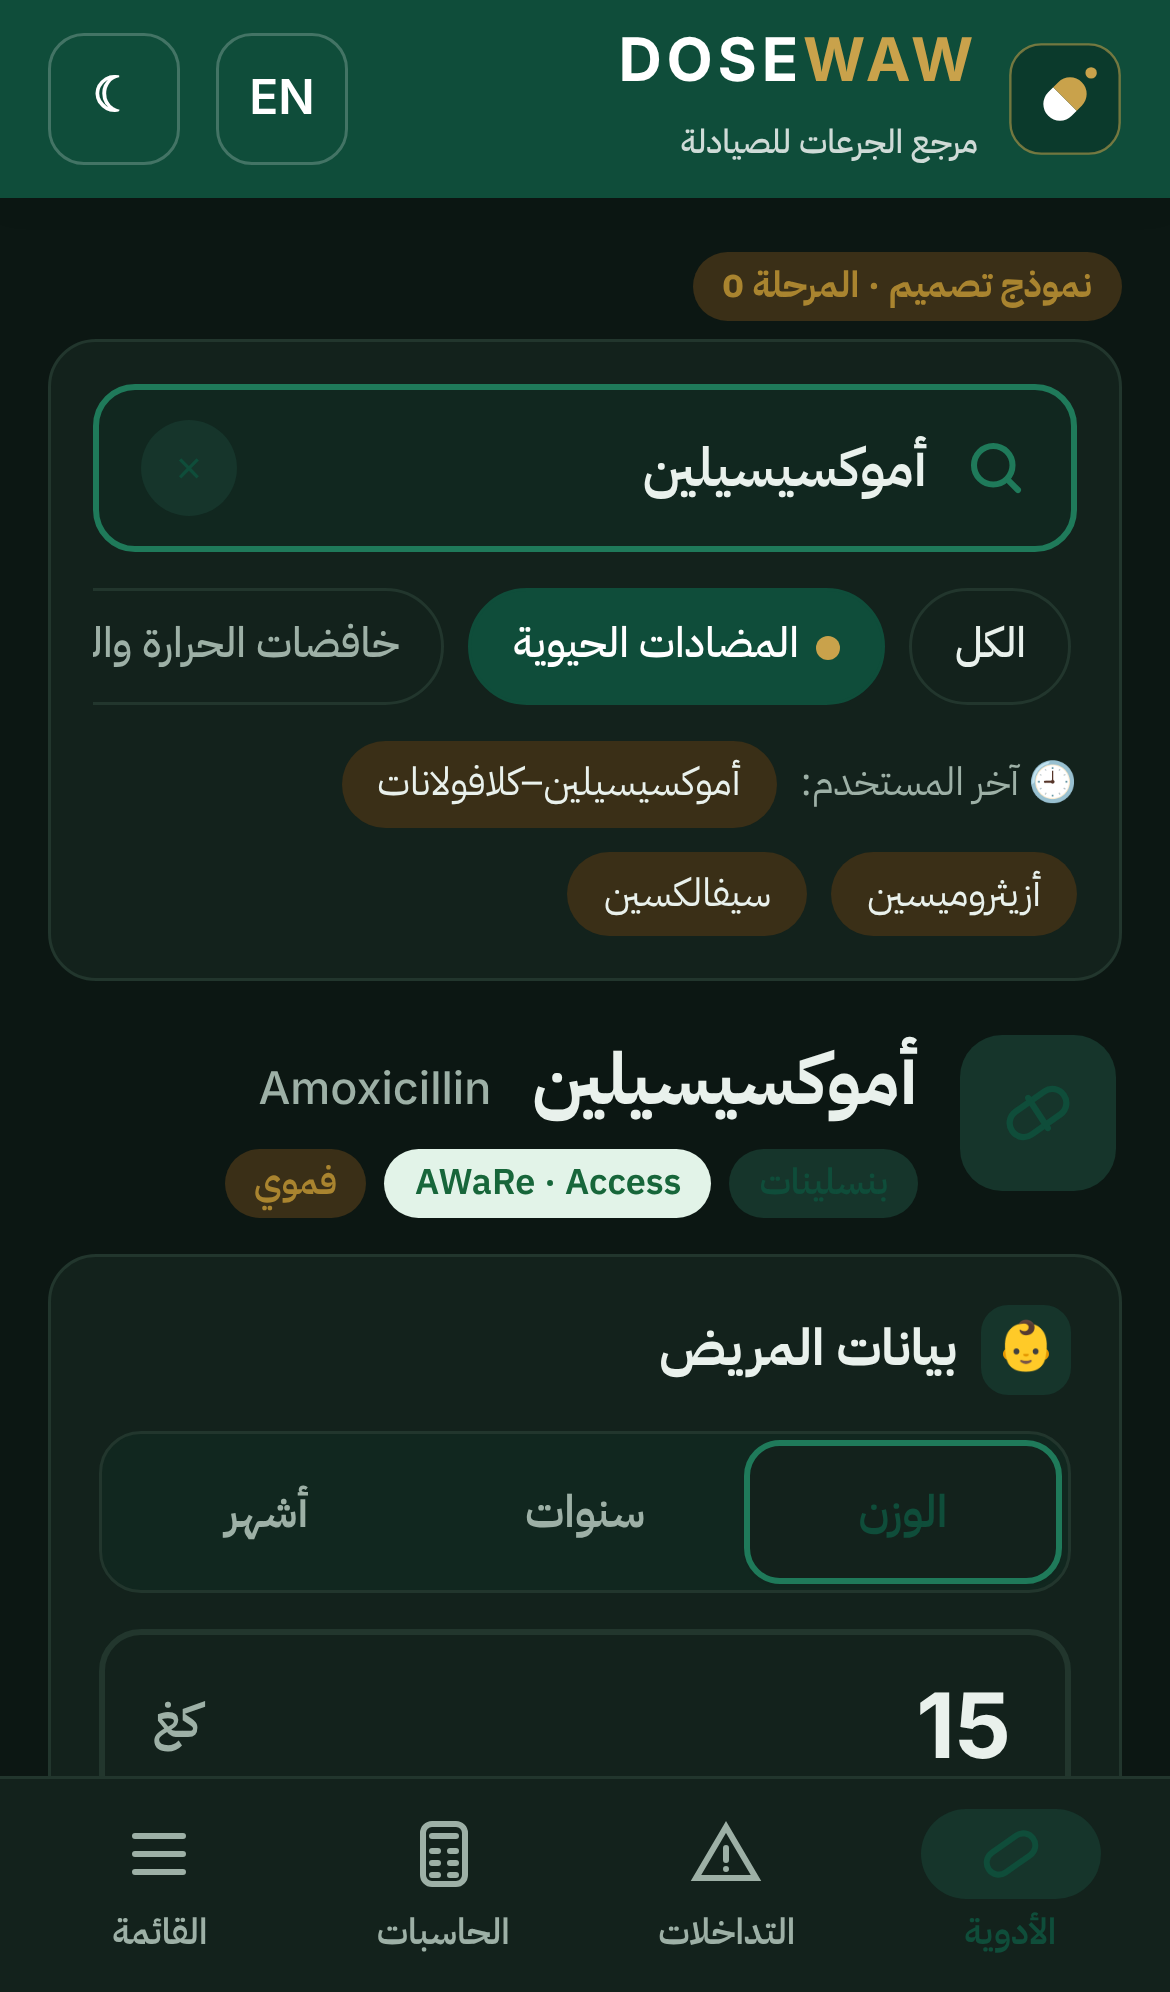
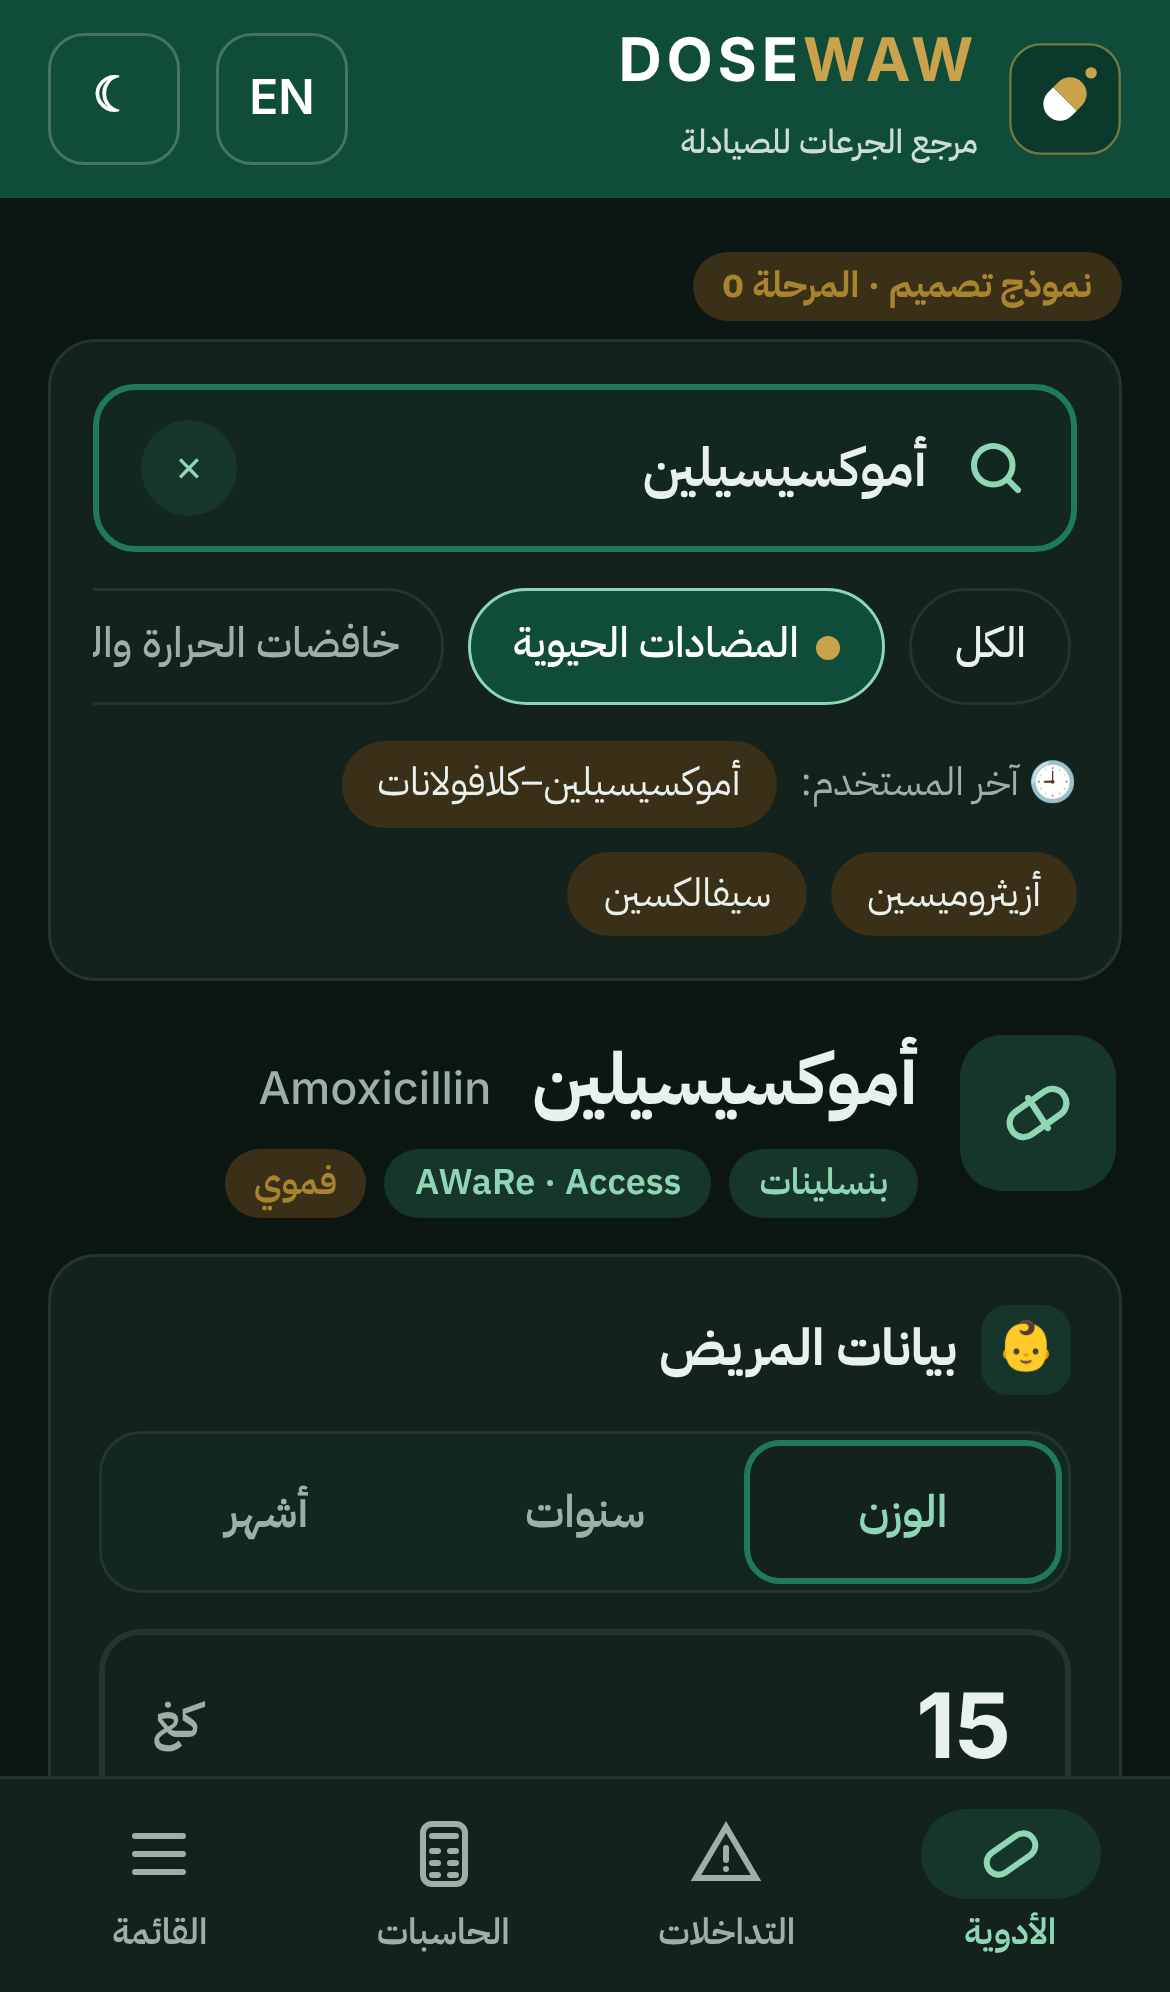
Phase 0 mockup: dark-mode contrast and date direction fixes
Claude-Session: https://claude.ai/code/session_01RPdTm6P4zQyDgno461tTNd

diff --git a/design/phase0/index.html b/design/phase0/index.html
@@ -12,7 +12,7 @@
 /* DOSEWAW · Phase 0 design mockup (not the production site).
    Identity: emerald green + gold on ivory. */
 :root{
-  --green-900:#0B3A2C; --green:#0F4D3A; --green-600:#1F7A5A; --green-100:#E3EFE9; --green-50:#F1F7F3;
+  --green-900:#0B3A2C; --green:#0F4D3A; --green-600:#1F7A5A; --green-100:#E3EFE9; --accent:#0F4D3A; --acc-bg:#E2F3E8; --acc-ink:#17663A; --green-50:#F1F7F3;
   --gold:#C9A24B; --gold-600:#A9842F; --gold-100:#F6EDD6;
   --bg:#FAF8F2; --card:#FFFFFF; --ink:#14231D; --mute:#5D6B64; --line:#E4E0D3;
   --major:#B42318; --major-bg:#FDECEA; --mod:#9A5B00; --mod-bg:#FFF4E0; --minor:#3D5A80; --minor-bg:#EAF0F7;
@@ -21,14 +21,14 @@
 }
 @media (prefers-color-scheme: dark){
   :root:not([data-theme="light"]){
-    --green-100:#16352B; --green-50:#11271F; --gold-100:#3A2F17;
+    --green-100:#16352B; --green-50:#11271F; --gold-100:#3A2F17; --accent:#8FD6B5; --acc-bg:#16352B; --acc-ink:#8FD6B5;
     --bg:#0C1713; --card:#13221C; --ink:#E9F1EC; --mute:#9DB0A6; --line:#22362D;
     --major-bg:#3A1612; --mod-bg:#35260C; --minor-bg:#17263A; --major:#F28B82; --mod:#F2C26B; --minor:#9CC0EA;
     --shadow:none;
   }
 }
 :root[data-theme="dark"]{
-  --green-100:#16352B; --green-50:#11271F; --gold-100:#3A2F17;
+  --green-100:#16352B; --green-50:#11271F; --gold-100:#3A2F17; --accent:#8FD6B5; --acc-bg:#16352B; --acc-ink:#8FD6B5;
   --bg:#0C1713; --card:#13221C; --ink:#E9F1EC; --mute:#9DB0A6; --line:#22362D;
   --major-bg:#3A1612; --mod-bg:#35260C; --minor-bg:#17263A; --major:#F28B82; --mod:#F2C26B; --minor:#9CC0EA;
   --shadow:none;
@@ -39,7 +39,7 @@ html,body{margin:0}
 body{background:var(--bg);color:var(--ink);font-family:var(--font);font-size:16px;line-height:1.6;-webkit-font-smoothing:antialiased;padding-bottom:84px}
 .en,.num{font-family:'Inter',var(--font)}
 button,input{font:inherit;color:inherit}
-a{color:var(--green-600)}
+a{color:var(--accent)}
 
 /* Header */
 .top{position:sticky;top:0;z-index:20;background:var(--green);color:#fff;box-shadow:0 2px 10px rgba(0,0,0,.08)}
@@ -55,13 +55,13 @@ a{color:var(--green-600)}
 .wrap{max-width:1200px;margin:0 auto;padding:16px}
 .search{background:var(--card);border:1px solid var(--line);border-radius:var(--radius);box-shadow:var(--shadow);padding:14px}
 .sbox{display:flex;align-items:center;gap:10px;background:var(--green-50);border:2px solid var(--green-600);border-radius:14px;padding:0 14px;height:56px}
-.sbox svg{flex:none;color:var(--green-600)}
+.sbox svg{flex:none;color:var(--accent)}
 .sbox input{border:0;background:transparent;outline:0;flex:1;font-size:18px;font-weight:600;min-width:0}
-.sbox .clr{border:0;background:var(--green-100);border-radius:99px;width:32px;height:32px;cursor:pointer;color:var(--green)}
+.sbox .clr{border:0;background:var(--green-100);border-radius:99px;width:32px;height:32px;cursor:pointer;color:var(--accent)}
 .chips{display:flex;gap:8px;overflow-x:auto;padding:12px 2px 2px;scrollbar-width:none}
 .chips::-webkit-scrollbar{display:none}
 .chip{flex:none;display:inline-flex;align-items:center;gap:6px;border:1px solid var(--line);background:var(--card);border-radius:99px;padding:7px 14px;font-size:14px;font-weight:500;white-space:nowrap;cursor:pointer}
-.chip[aria-pressed="true"]{background:var(--green);border-color:var(--green);color:#fff}
+.chip[aria-pressed="true"]{background:var(--green);border-color:var(--accent);color:#fff}
 .chip .dot{width:8px;height:8px;border-radius:50%;background:var(--gold)}
 .chip.soon{color:var(--mute)}
 .chip.soon em{font-style:normal;font-size:11px;background:var(--gold-100);color:var(--gold-600);border-radius:99px;padding:1px 7px}
@@ -70,13 +70,13 @@ a{color:var(--green-600)}
 
 /* Drug head */
 .dhead{display:flex;align-items:flex-start;gap:14px;margin:18px 2px 12px}
-.dicon{flex:none;width:52px;height:52px;border-radius:14px;background:var(--green-100);display:grid;place-items:center;color:var(--green)}
+.dicon{flex:none;width:52px;height:52px;border-radius:14px;background:var(--green-100);display:grid;place-items:center;color:var(--accent)}
 .dhead h1{margin:0;font-size:24px;line-height:1.3}
 .dhead h1 .en{font-size:15px;font-weight:500;color:var(--mute);margin-inline-start:8px}
 .tags{display:flex;gap:6px;flex-wrap:wrap;margin-top:6px}
-.tag{font-size:12px;border-radius:99px;padding:2px 10px;background:var(--green-100);color:var(--green);font-weight:600}
+.tag{font-size:12px;border-radius:99px;padding:2px 10px;background:var(--green-100);color:var(--accent);font-weight:600}
 .tag.gold{background:var(--gold-100);color:var(--gold-600)}
-.tag.access{background:#E2F3E8;color:#17663A}
+.tag.access{background:var(--acc-bg);color:var(--acc-ink)}
 
 /* Layout */
 .grid{display:grid;gap:16px}
@@ -92,16 +92,16 @@ a{color:var(--green-600)}
 .grid>*,.calc-col>*,.info>*{min-width:0}
 .card{background:var(--card);border:1px solid var(--line);border-radius:var(--radius);box-shadow:var(--shadow);padding:16px}
 .card h2{margin:0 0 12px;font-size:17px;display:flex;align-items:center;gap:8px}
-.card h2 .ic{width:30px;height:30px;border-radius:9px;display:grid;place-items:center;background:var(--green-100);color:var(--green);font-size:16px}
+.card h2 .ic{width:30px;height:30px;border-radius:9px;display:grid;place-items:center;background:var(--green-100);color:var(--accent);font-size:16px}
 .card h2 .cnt{margin-inline-start:auto;font-size:12px;font-weight:600;color:var(--mute)}
 
 /* Patient input */
 .seg{display:grid;grid-template-columns:repeat(3,1fr);background:var(--green-50);border:1px solid var(--line);border-radius:14px;padding:4px;gap:4px}
 .seg.two{grid-template-columns:1fr 1fr}
 .seg button{border:0;background:transparent;border-radius:10px;min-height:44px;font-weight:600;font-size:15px;cursor:pointer;color:var(--mute)}
-.seg button[aria-pressed="true"]{background:var(--card);color:var(--green);box-shadow:0 1px 3px rgba(0,0,0,.08);outline:2px solid var(--green-600)}
+.seg button[aria-pressed="true"]{background:var(--card);color:var(--accent);box-shadow:0 1px 3px rgba(0,0,0,.08);outline:2px solid var(--green-600)}
 .numin{display:flex;align-items:center;gap:10px;margin-top:12px;border:2px solid var(--line);border-radius:14px;padding:0 16px;height:64px;background:var(--card)}
-.numin:focus-within{border-color:var(--green-600)}
+.numin:focus-within{border-color:var(--accent)}
 .numin input{border:0;outline:0;background:transparent;flex:1;width:100%;font-size:30px;font-weight:700;min-width:0;font-family:'Inter',sans-serif;text-align:start}
 .numin span{color:var(--mute);font-weight:600}
 .est{font-size:13px;color:var(--gold-600);background:var(--gold-100);border-radius:10px;padding:6px 10px;margin-top:8px}
@@ -109,10 +109,10 @@ a{color:var(--green-600)}
 .opts{display:grid;gap:6px}
 .opt{display:flex;align-items:center;gap:10px;border:1px solid var(--line);border-radius:12px;padding:10px 12px;min-height:48px;cursor:pointer;background:var(--card);text-align:start;font-size:14.5px}
 .opt i{flex:none;width:20px;height:20px;border-radius:50%;border:2px solid var(--mute)}
-.opt[aria-pressed="true"]{border-color:var(--green-600);background:var(--green-50)}
+.opt[aria-pressed="true"]{border-color:var(--accent);background:var(--green-50)}
 .opt[aria-pressed="true"] i{border:6px solid var(--green-600)}
 .check{display:flex;align-items:center;gap:10px;margin-top:10px;font-size:14px;color:var(--mute);cursor:pointer}
-.check input{width:20px;height:20px;accent-color:var(--green-600)}
+.check input{width:20px;height:20px;accent-color:var(--accent)}
 
 /* Result */
 .result{padding:0;overflow:hidden;border:0;box-shadow:0 10px 30px rgba(15,77,58,.18)}
@@ -126,7 +126,7 @@ a{color:var(--green-600)}
 table.ml{width:100%;border-collapse:collapse;font-size:15px}
 table.ml th{font-size:12px;color:var(--mute);font-weight:600;text-align:start;padding:4px 0 8px}
 table.ml td{padding:10px 0;border-top:1px solid var(--line)}
-table.ml td.v{font-family:'Inter',sans-serif;font-weight:700;font-size:20px;color:var(--green);text-align:end;white-space:nowrap}
+table.ml td.v{font-family:'Inter',sans-serif;font-weight:700;font-size:20px;color:var(--accent);text-align:end;white-space:nowrap}
 table.ml td.v small{font-family:var(--font);font-size:13px;color:var(--mute);font-weight:500}
 table.ml tr.best td{background:var(--gold-100)}
 table.ml tr.best td:first-child{border-start-start-radius:10px;border-end-start-radius:10px;padding-inline-start:8px}
@@ -170,7 +170,7 @@ ol.refs .d{color:var(--mute);font-size:12.5px}
 .tabs{position:fixed;bottom:0;inset-inline:0;z-index:30;background:var(--card);border-top:1px solid var(--line);display:grid;grid-template-columns:repeat(4,1fr);padding:6px 6px calc(6px + env(safe-area-inset-bottom))}
 .tabs button{border:0;background:transparent;display:flex;flex-direction:column;align-items:center;gap:2px;font-size:12px;font-weight:600;color:var(--mute);padding:4px 0;cursor:pointer}
 .tabs button svg{width:24px;height:24px}
-.tabs button[aria-current="page"]{color:var(--green)}
+.tabs button[aria-current="page"]{color:var(--accent)}
 .tabs button[aria-current="page"] .pill{background:var(--green-100)}
 .tabs .pill{border-radius:99px;padding:3px 18px;display:grid;place-items:center}
 .side{display:none}
@@ -305,7 +305,7 @@ ol.refs .d{color:var(--mute);font-size:12.5px}
       <section class="card">
         <h2><span class="ic">📚</span>المصادر</h2>
         <ol class="refs">
-          <li id="r1"><a href="https://dailymed.nlm.nih.gov/dailymed/drugInfo.cfm?setid=06e5c07d-d95c-4955-8d35-a4703ca2359e" target="_blank" rel="noopener">DailyMed — Amoxicillin (FDA label)</a><br><span class="d">نسخة النشرة: 2026-07-07 · الأقسام 2.2، 2.3، 2.5، 7، 8</span></li>
+          <li id="r1"><a href="https://dailymed.nlm.nih.gov/dailymed/drugInfo.cfm?setid=06e5c07d-d95c-4955-8d35-a4703ca2359e" target="_blank" rel="noopener">DailyMed — Amoxicillin (FDA label)</a><br><span class="d">نسخة النشرة: <bdi class="num">2026-07-07</bdi> · الأقسام 2.2، 2.3، 2.5، 7، 8</span></li>
         </ol>
       </section>
     </div>
@@ -364,7 +364,7 @@ function render(){
 function body(warn,rows,daily){
   const best=rows.length?rows.reduce((b,r)=>Math.abs(r[1]-5)<Math.abs(b[1]-5)?r:b,rows[0])[0]:null;
   const t=rows.length?`<table class="ml"><tr><th>تركيز الشراب</th><th style="text-align:end">الكمية لكل جرعة</th></tr>${rows.map(([c,ml])=>`<tr class="${c===best?'best':''}"><td><span class="num">${c} mg / 5 mL</span>${c===best?' <small style="color:var(--gold-600);font-weight:600">· الأنسب للقياس</small>':''}</td><td class="v">${fmt(ml)} <small>مل</small></td></tr>`).join('')}</table>`:'';
-  return `<div class="rbody">${t}${warn}<div class="facts"><div class="fact"><b>المجموع اليومي</b><span class="num">${fmt(daily)} mg</span></div><div class="fact"><b>المدة</b><span>48–72 ساعة بعد زوال الأعراض</span></div></div><p class="src">حسب المصدر: <a href="#r1">DailyMed · Amoxicillin [1]</a> · نسخة 2026-07-07 · القسم 2.2</p><div class="acts"><button class="btn pri" type="button">نسخ النتيجة</button><button class="btn" type="button">طباعة</button><button class="btn" type="button">مشاركة</button></div></div>`;
+  return `<div class="rbody">${t}${warn}<div class="facts"><div class="fact"><b>المجموع اليومي</b><span class="num">${fmt(daily)} mg</span></div><div class="fact"><b>المدة</b><span>48–72 ساعة بعد زوال الأعراض</span></div></div><p class="src">حسب المصدر: <a href="#r1">DailyMed · Amoxicillin [1]</a> · نسخة <bdi class="num">2026-07-07</bdi> · القسم 2.2</p><div class="acts"><button class="btn pri" type="button">نسخ النتيجة</button><button class="btn" type="button">طباعة</button><button class="btn" type="button">مشاركة</button></div></div>`;
 }
 render();
 </script>
